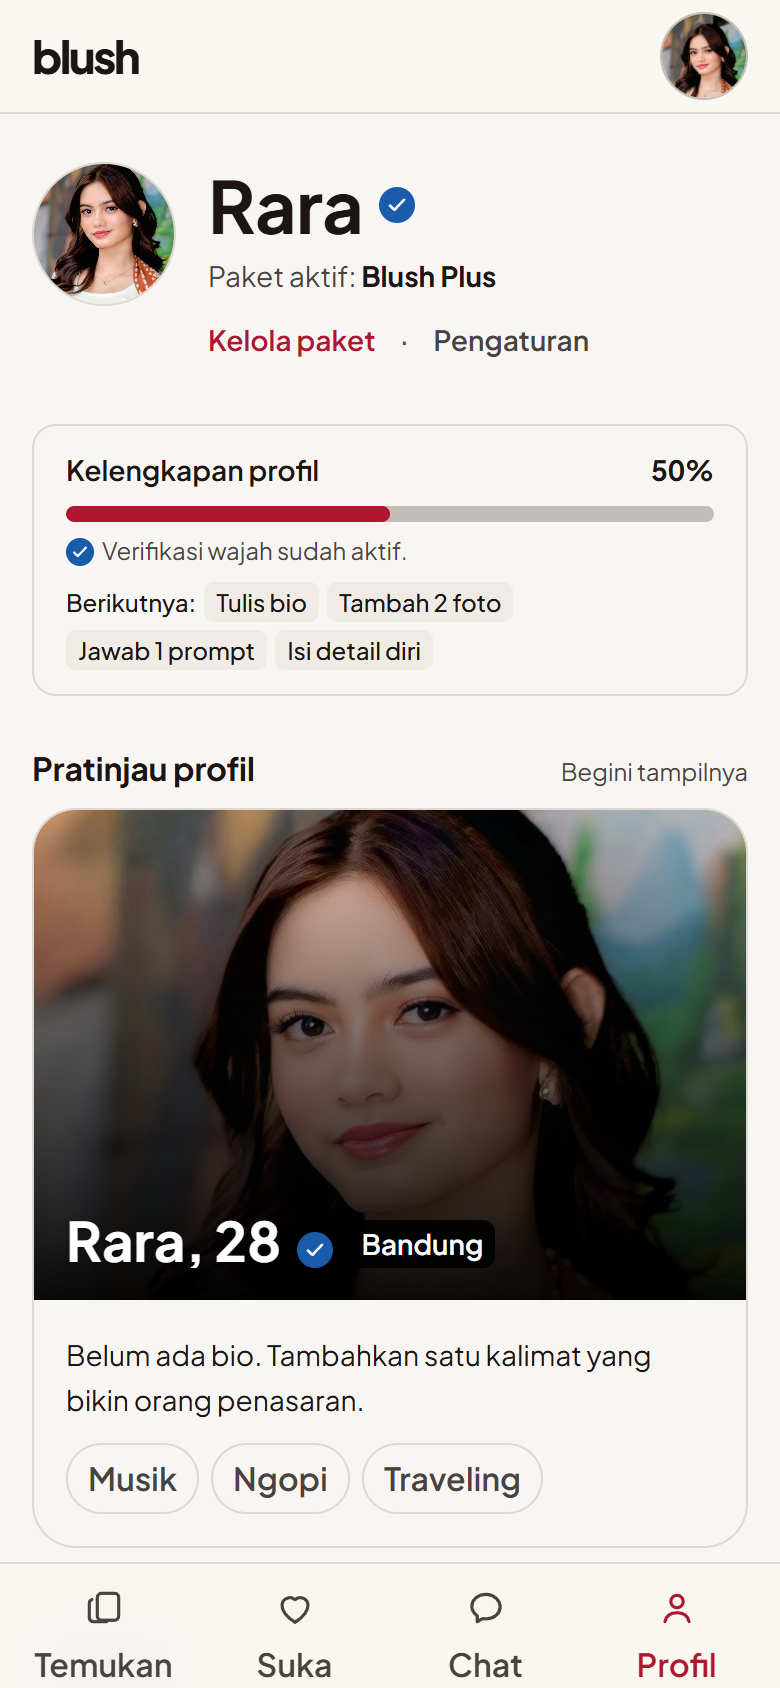
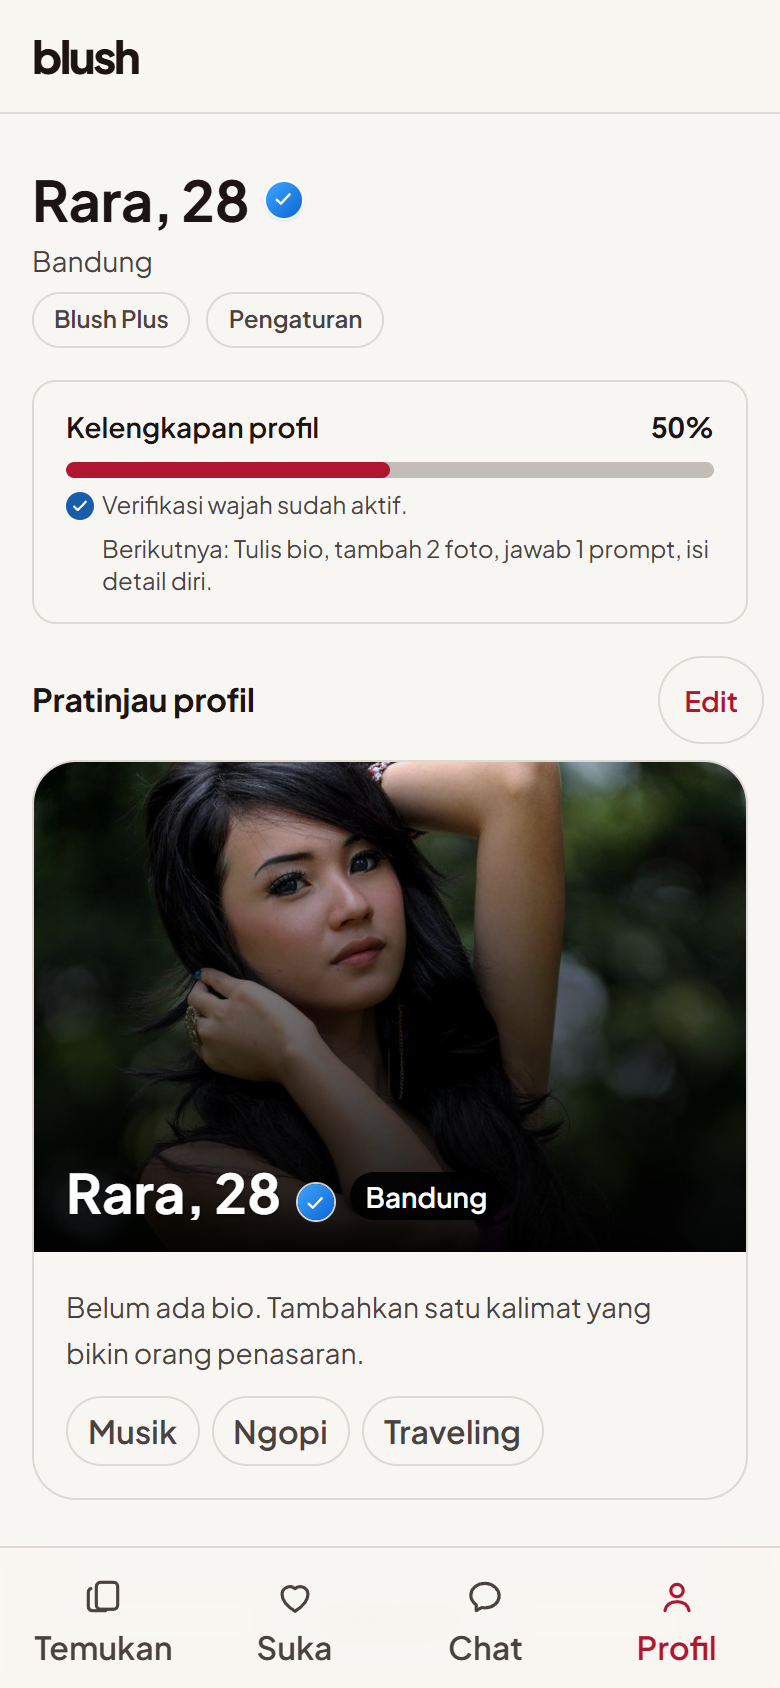
Pakai foto profil Indonesia di aplikasi dan landing

diff --git a/src/app/page.tsx b/src/app/page.tsx
@@ -126,7 +126,7 @@ export default function Home() {
 
         <div className="relative mx-auto w-full max-w-[19rem]">
           <div className="absolute inset-0 -z-10 -rotate-2 translate-y-2 rounded-[36px] border border-line bg-paper-3" aria-hidden="true" />
-          <Phone src="/landing/deck.png" alt="Kartu profil Damar di deck Blush, lengkap dengan bio, prompt, dan minat" />
+          <Phone src="/landing/deck.png" alt="Kartu profil Raka Aditya di deck Blush, lengkap dengan bio, prompt, dan minat" />
         </div>
       </section>
 
